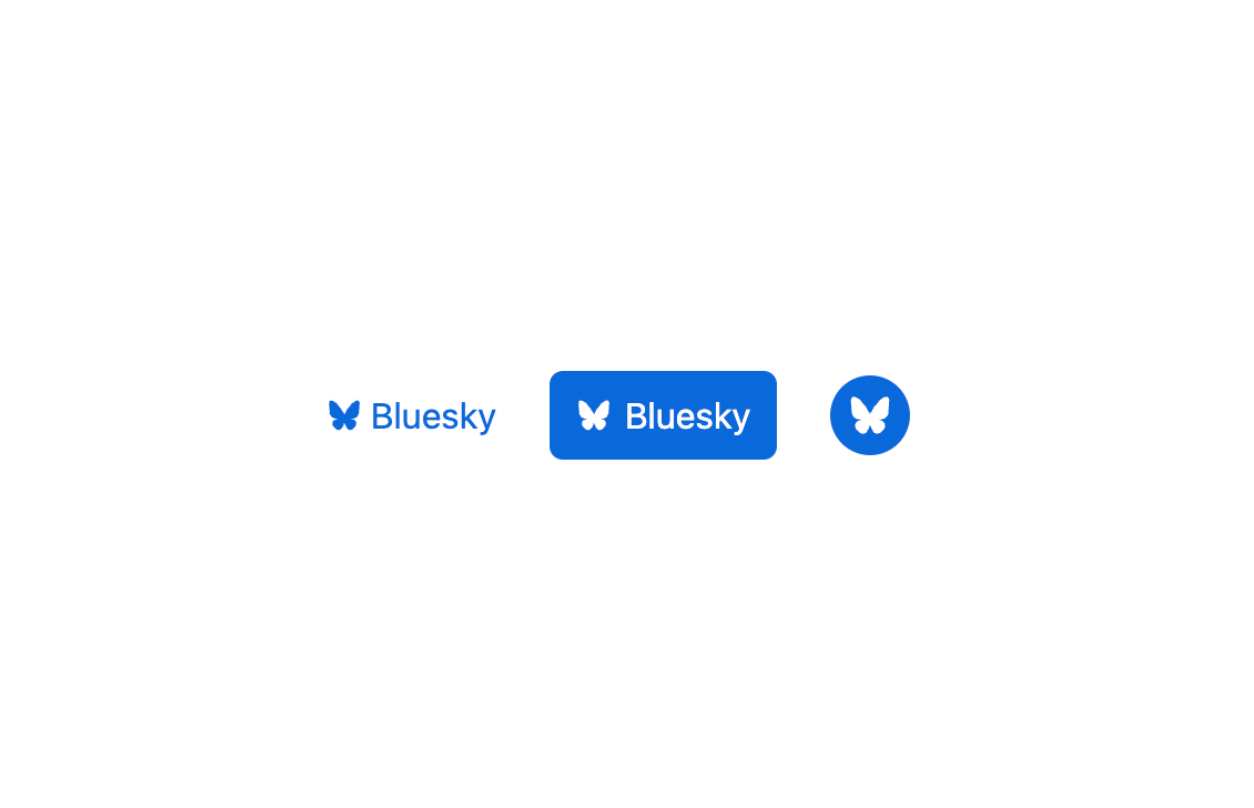
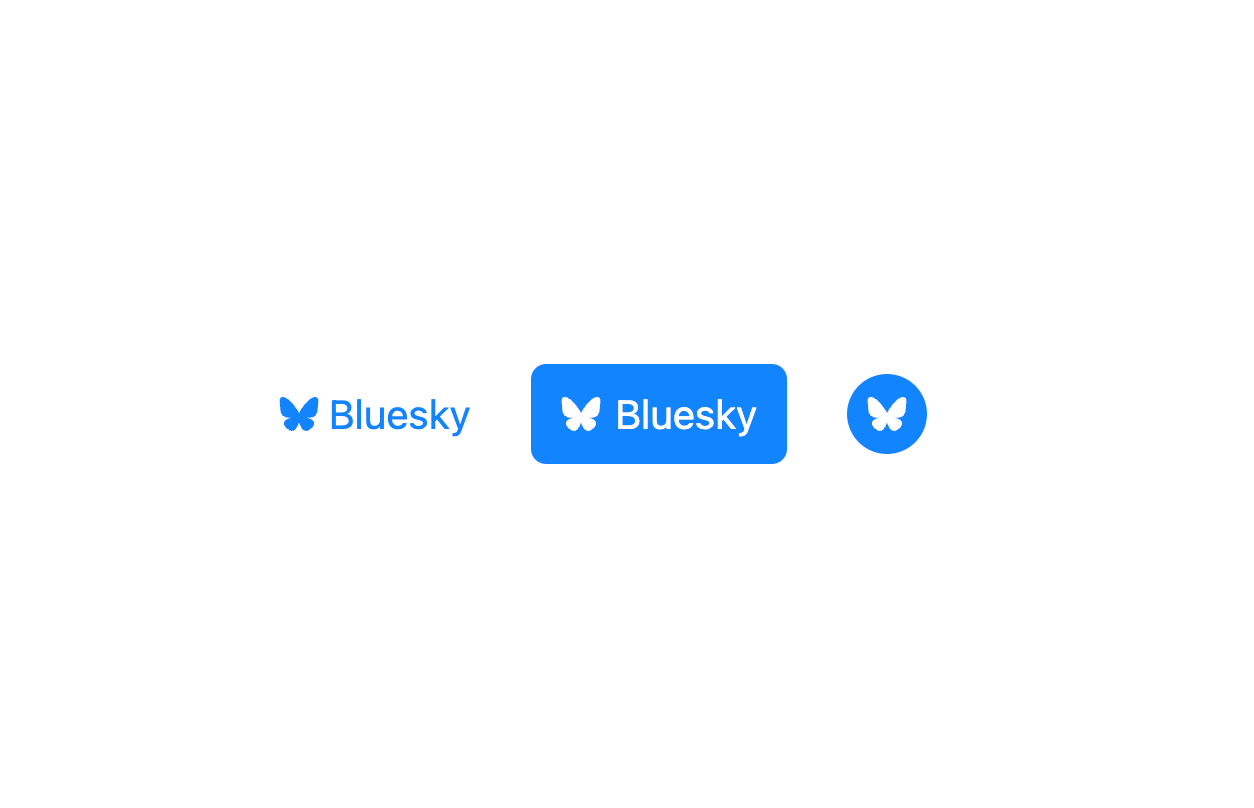
Update bluesky according to latest source code

Changed region(s): [[0.2177, 0.4332, 0.7464, 0.5879]]

diff --git a/index.js b/index.js
@@ -15,7 +15,7 @@ const svg = optimize(origin, {
 const bluesky = {
     black: svg.data, // default color variant is black
     white: svg.data.replace('fill="currentColor"', 'fill="#fff"'),
-    blue: svg.data.replace('fill="currentColor"', 'fill="#0560ff"'),
+    blue: svg.data.replace('fill="currentColor"', 'fill="#1185fe"'),
 }
 
 

diff --git a/readme.md b/readme.md
@@ -8,7 +8,7 @@ The [Bluesky icon](https://bsky.app/) based on [Bluesky APP code](https://github
 
 ## Examples
 
-Let's check out how it [looks in action](https://play.tailwindcss.com/YKDQs9RKCY):
+Let's check out how it [looks in action](https://play.tailwindcss.com/2kv7sbJR0P):
 
 ![Example](src/example.png)
 
